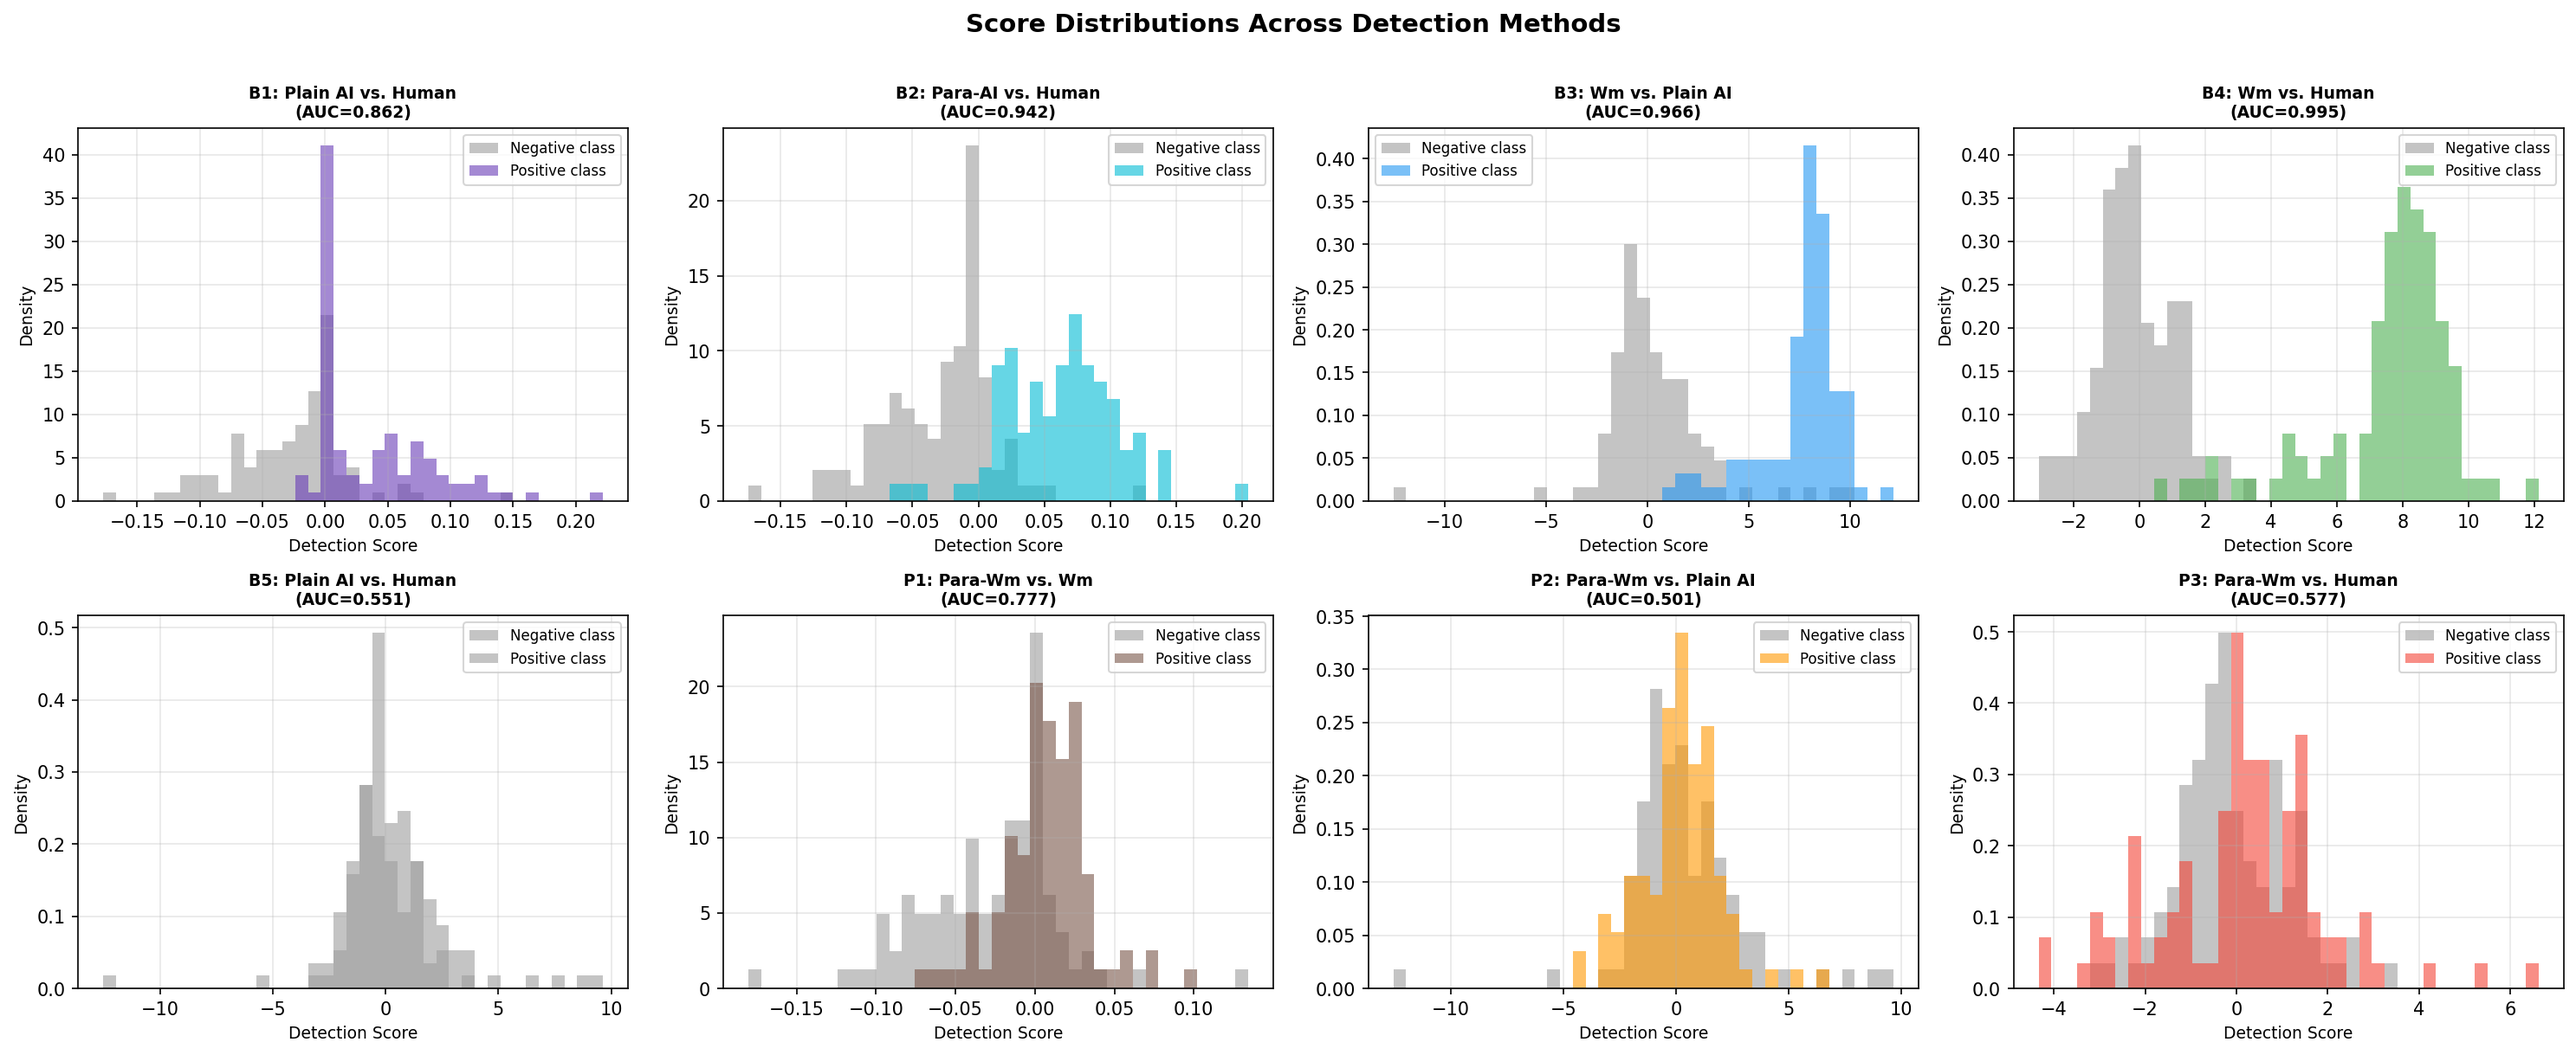
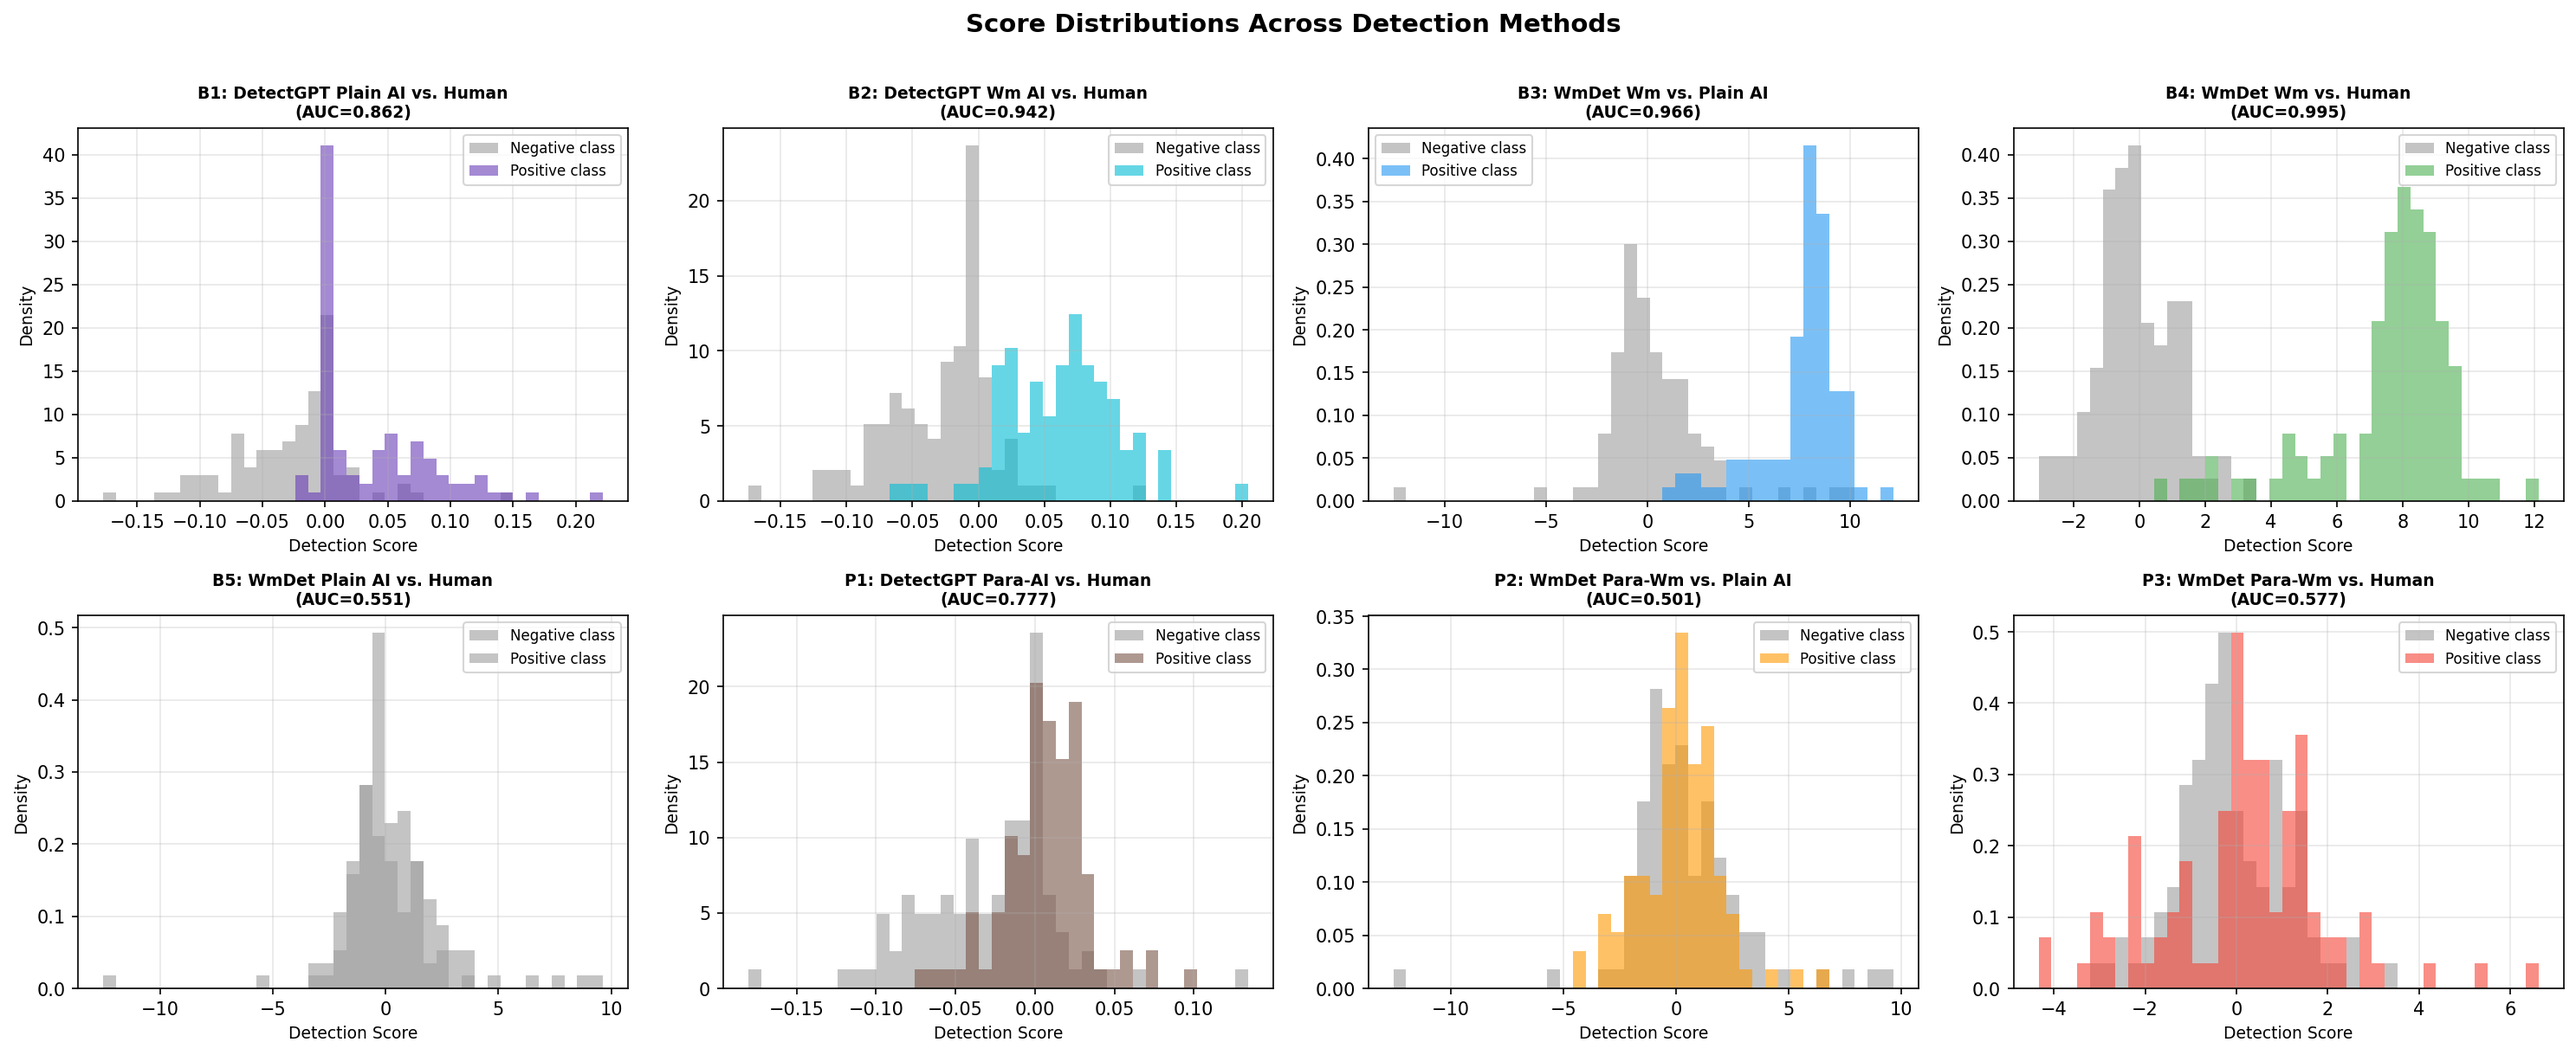
Fix naming issues in generate_plots and created new plots

diff --git a/generate_plots.py b/generate_plots.py
@@ -15,25 +15,25 @@ results_dir = "experiment_results"
 plots_dir = "plots"
 
 EXPERIMENT_LABELS = {
-    "baseline_1":     "Baseline 1\nPlain AI vs. Human (AI Detector)",
-    "baseline_2":     "Baseline 2\nParaphrased AI vs. Human (AI Detector)",
-    "baseline_3":     "Baseline 3\nWatermarked vs. Plain AI",
-    "baseline_4":     "Baseline 4\nWatermarked vs. Human",
-    "baseline_5":     "Baseline 5\nPlain AI vs. Human",
-    "paraphrasing_1": "Paraphrasing 1\nParaphrased Watermarked vs. Watermarked",
-    "paraphrasing_2": "Paraphrasing 2\nParaphrased Watermarked vs. Plain AI",
-    "paraphrasing_3": "Paraphrasing 3\nParaphrased Watermarked vs. Human",
+    "baseline_1":     "Baseline 1\nDetectGPT: Plain AI vs. Human",
+    "baseline_2":     "Baseline 2\nDetectGPT: Watermarked AI vs. Human",
+    "baseline_3":     "Baseline 3\nWatermark Detector: Watermarked AI vs. Plain AI",
+    "baseline_4":     "Baseline 4\nWatermark Detector: Watermarked AI vs. Human",
+    "baseline_5":     "Baseline 5\nWatermark Detector: Plain AI vs. Human",
+    "paraphrasing_1": "Paraphrasing 1\nDetectGPT: Paraphrased AI vs. Human",
+    "paraphrasing_2": "Paraphrasing 2\nWatermark Detector: Paraphrased Watermarked AI vs. Plain AI",
+    "paraphrasing_3": "Paraphrasing 3\nWatermark Detector: Paraphrased Watermarked AI vs. Human",
 }
 
 SHORT_LABELS = {
-    "baseline_1":     "B1: Plain AI vs. Human",
-    "baseline_2":     "B2: Para-AI vs. Human",
-    "baseline_3":     "B3: Wm vs. Plain AI",
-    "baseline_4":     "B4: Wm vs. Human",
-    "baseline_5":     "B5: Plain AI vs. Human",
-    "paraphrasing_1": "P1: Para-Wm vs. Wm",
-    "paraphrasing_2": "P2: Para-Wm vs. Plain AI",
-    "paraphrasing_3": "P3: Para-Wm vs. Human",
+    "baseline_1":     "B1: DetectGPT Plain AI vs. Human",
+    "baseline_2":     "B2: DetectGPT Wm AI vs. Human",
+    "baseline_3":     "B3: WmDet Wm vs. Plain AI",
+    "baseline_4":     "B4: WmDet Wm vs. Human",
+    "baseline_5":     "B5: WmDet Plain AI vs. Human",
+    "paraphrasing_1": "P1: DetectGPT Para-AI vs. Human",
+    "paraphrasing_2": "P2: WmDet Para-Wm vs. Plain AI",
+    "paraphrasing_3": "P3: WmDet Para-Wm vs. Human",
 }
 
 COLORS = {
@@ -124,7 +124,7 @@ def plot_auroc_bar(data, plots_dir):
 
     ax.axhline(0.5, color="black", linestyle="--", linewidth=1, label="Random baseline")
     ax.set_xticks(x)
-    ax.set_xticklabels([SHORT_LABELS[k] for k in keys], fontsize=8)
+    ax.set_xticklabels([SHORT_LABELS[k] for k in keys], fontsize=8, rotation=45, ha="right")
     ax.set_ylabel("AUROC", fontsize=12)
     ax.set_ylim(0, 1.12)
 
@@ -133,6 +133,7 @@ def plot_auroc_bar(data, plots_dir):
 
     ax.legend(fontsize=10)
     ax.grid(axis="y", alpha=0.3)
+    fig.subplots_adjust(bottom=0.25)
     fig.tight_layout()
     path = os.path.join(plots_dir, "auroc_bar.png")
     fig.savefig(path, dpi=150)
@@ -213,7 +214,7 @@ def plot_fpr_bar(data, plots_dir):
                label="5% FPR target")
 
     ax.set_xticks(x)
-    ax.set_xticklabels([SHORT_LABELS[k] for k in keys], fontsize=8)
+    ax.set_xticklabels([SHORT_LABELS[k] for k in keys], fontsize=8, rotation=45, ha="right")
     ax.set_ylabel("FPR @ 95% TPR", fontsize=12)
     ax.set_ylim(0, 1.15)
 
@@ -222,6 +223,7 @@ def plot_fpr_bar(data, plots_dir):
 
     ax.legend(fontsize=10)
     ax.grid(axis="y", alpha=0.3)
+    fig.subplots_adjust(bottom=0.25)
     fig.tight_layout()
     path = os.path.join(plots_dir, "fpr_at_95tpr_bar.png")
     fig.savefig(path, dpi=150)
